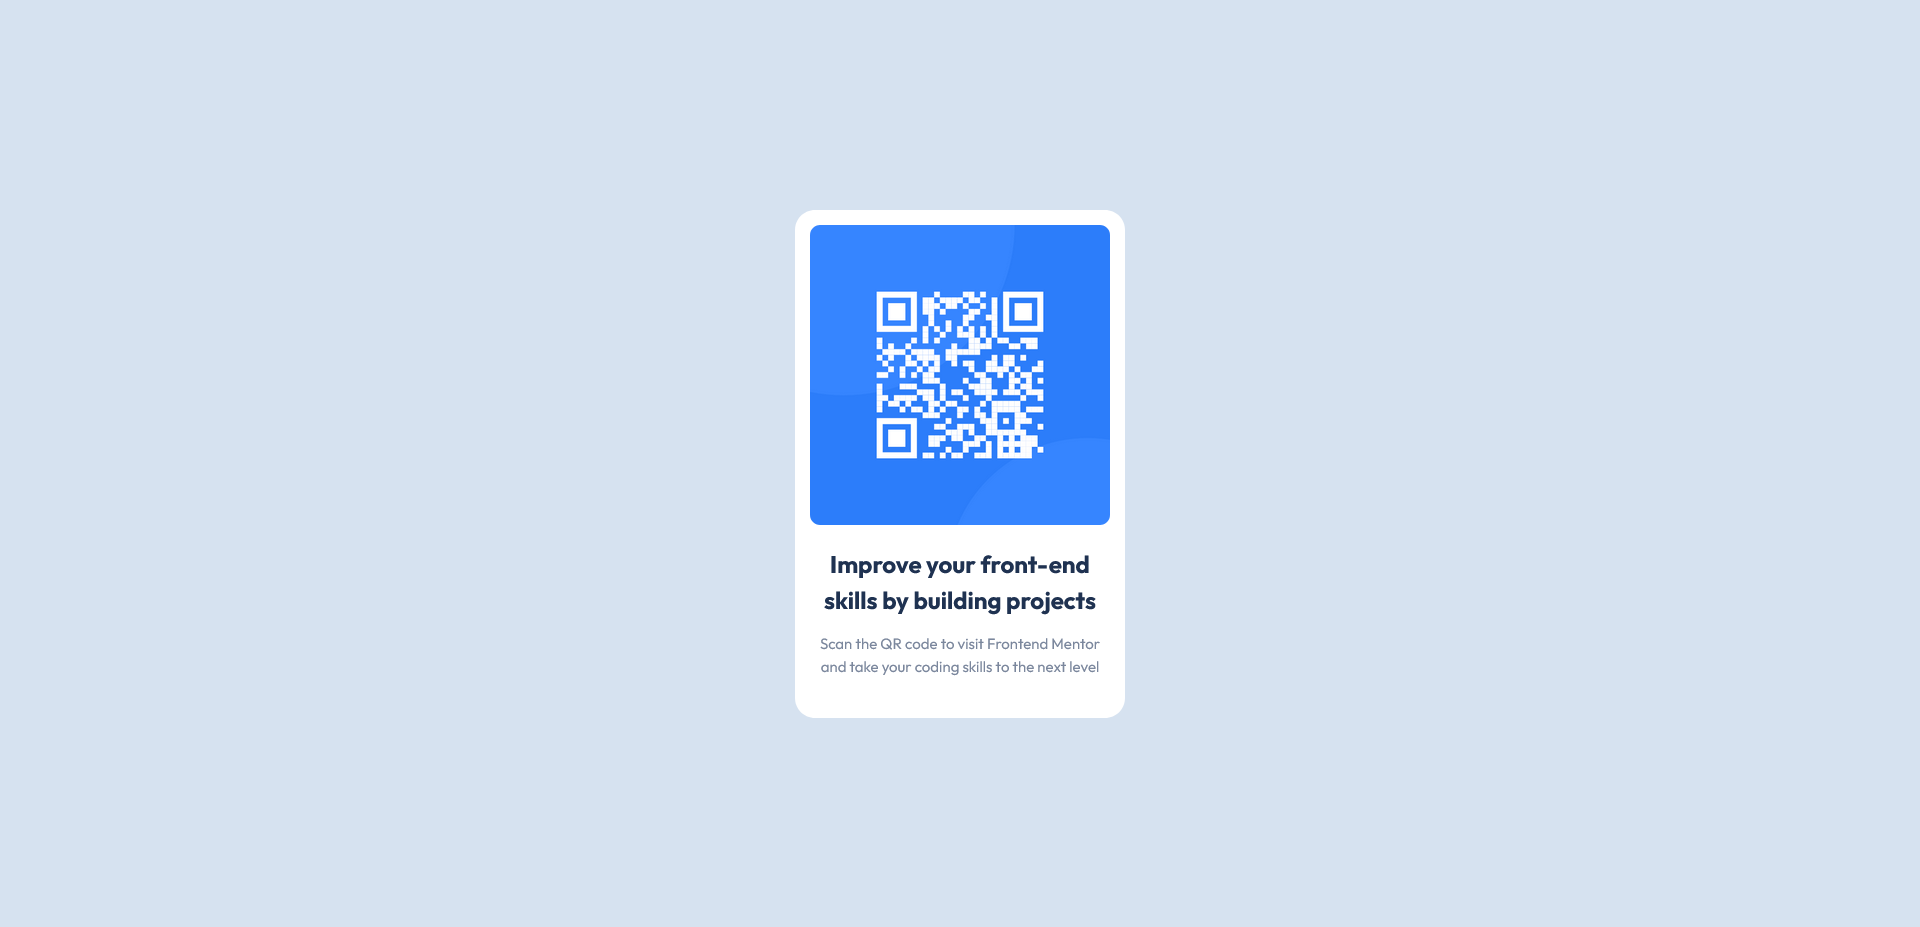
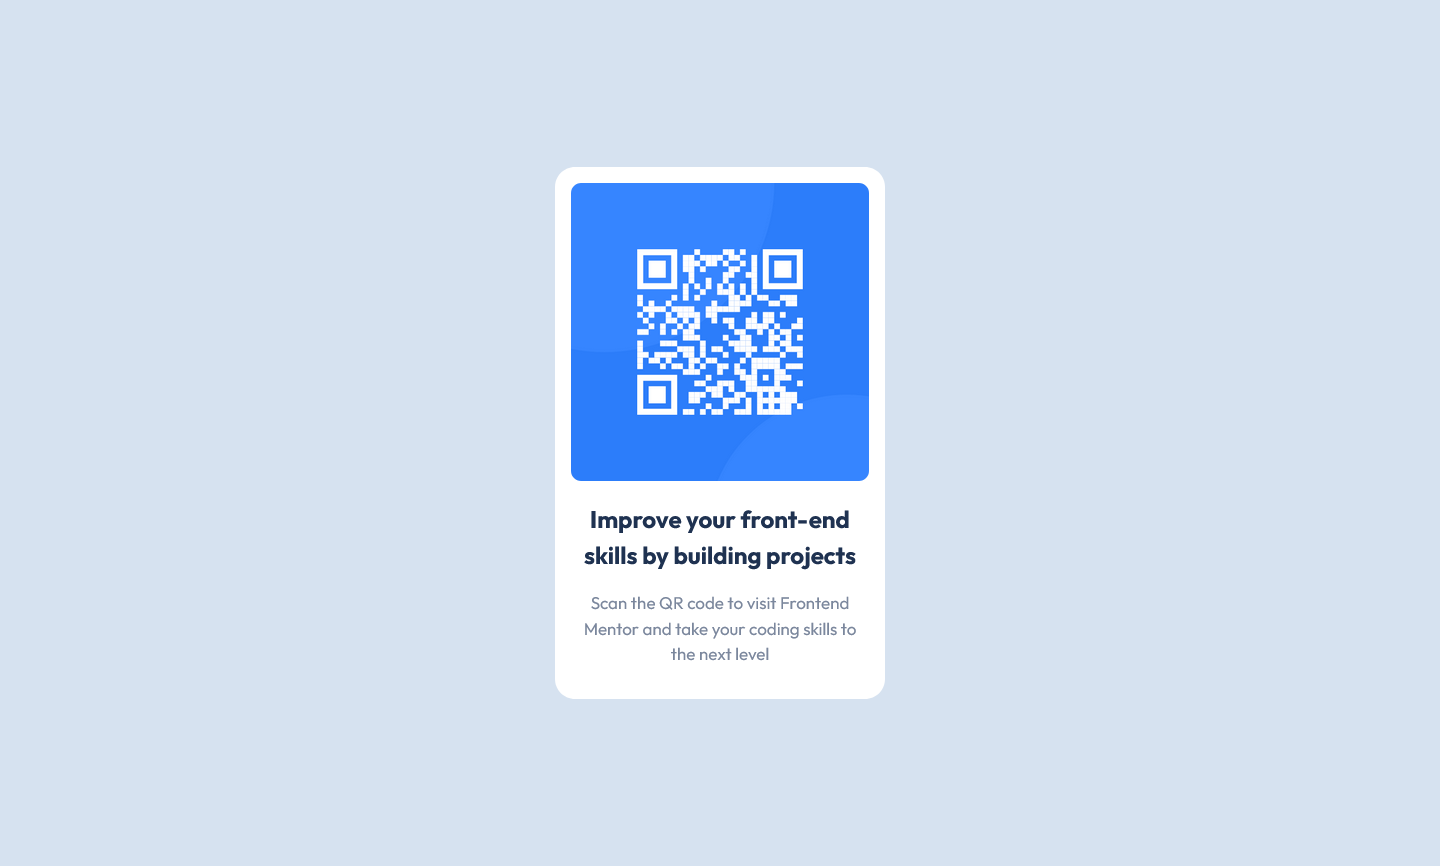
new styles.css

Changed region(s): [[0.375, 0.1871, 0.625, 0.8106]]

diff --git a/css/styles.css b/css/styles.css
@@ -29,50 +29,38 @@ html{
 }
 
 body{
-    display:flex;
-    flex-direction: column;
-    justify-content: center;
     background-color:var(--light-gray) ;
     font-family: var(--main-font);
-    font-size: 1.6rem;
     line-height: 1.5;
     margin:0;
-    height: 100vh;
 }
 
-.container{
-    max-width: 33rem;
-    width: 90%;
-    margin: 0 auto;
-}
-
-.img{
+img{
     max-width: 100%;
     display: block;
     height: auto;
+    border-radius: 1rem;
 }
+
+.container{
+    display:flex;
+    align-items: center;
+    justify-content: center;
+    height: 100vh;
+}
+
 
 .component{
     background-color: var(--white);
     border-radius: 2rem;
+    max-width: 33rem;
+    width: 90%;
+    padding:1.6rem;
 }
-.component__flex{
-    display: flex;
-    flex-direction: column;
-    align-items: center;
-}
-.component__image{
-   padding: 1.5rem ;
-   
-}
-.component__image img{
-    width:100%;
-    border-radius: 1rem;
-    
-}
+
 .component__text{
-    padding: 0 2rem;
     text-align: center;
+    margin-top: 2rem;
 }
 .component__heading{
     margin:0;
@@ -81,6 +69,5 @@ body{
 }
 .component__paragraph{
     color:var(--grayish-blue);
-    margin-bottom: 4rem;
-    font-size: 1.5rem;
+    font-size: 1.7rem;
 }

diff --git a/index.html b/index.html
@@ -10,28 +10,20 @@
   <link rel="preconnect" href="https://fonts.gstatic.com" crossorigin>
   <link href="https://fonts.googleapis.com/css2?family=Outfit:wght@400;700&display=swap" rel="stylesheet">
   <link rel="stylesheet" href="css/styles.css">
-
 </head>
 
 <body>
-  
-  <main class="component container">
 
-    <div class="component__flex">
-
-      <div class="component__image">
-        <img src="images/image-qr-code.png" alt="qr image">
-      </div>
-
+  <main class="container">
+    <div class="component">
+      <img class="component__image" src="images/image-qr-code.png" alt="qr image">
       <div class="component__text">
         <h1 class="component__heading">Improve your front-end skills by building projects</h1>
         <p class="component__paragraph">Scan the QR code to visit Frontend Mentor and take your coding skills to the next level</p>
       </div>
-
     </div>
-
   </main>
-  
+
 </body>
 
 </html>
